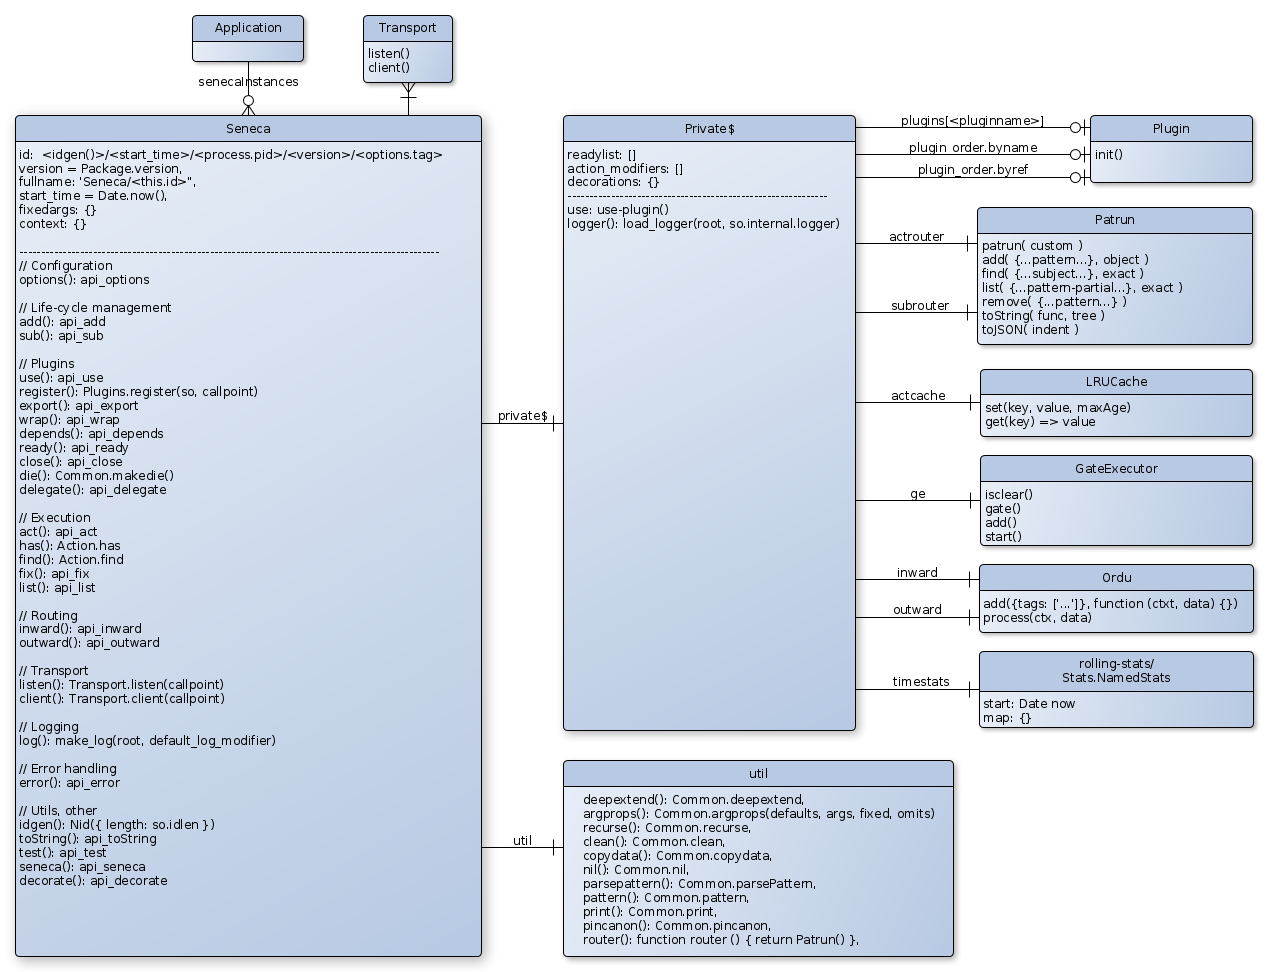
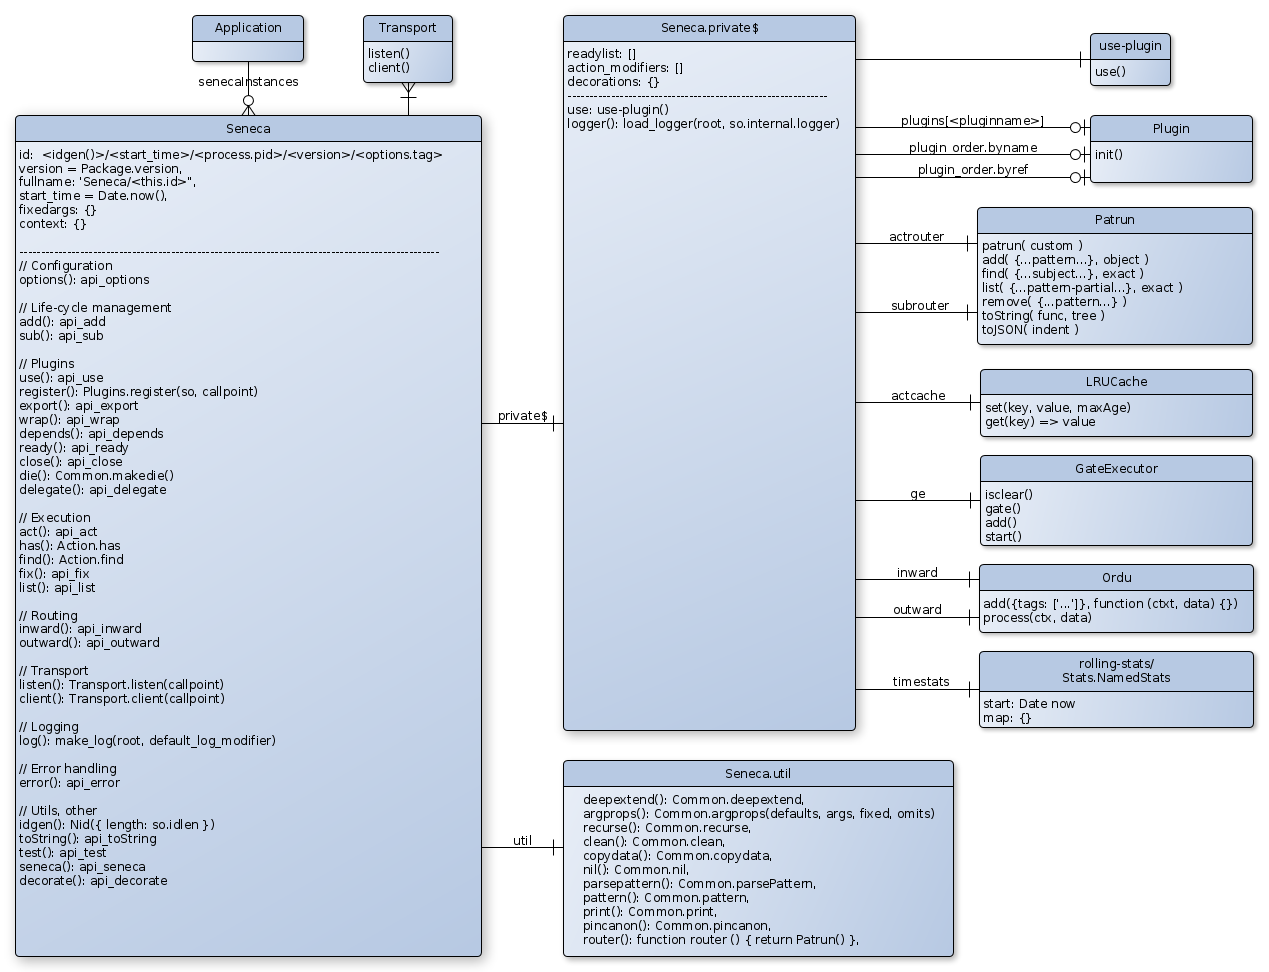
Fine tune domain model diagram

diff --git a/lib/seneca_internals/README.md b/lib/seneca_internals/README.md
@@ -11,7 +11,7 @@ Seneca Internals
 
 ## Domain Model
 
-The following image shows the domain model of the seneca framework:
+The following image shows the simplified domain model of an application that is using seneca instances:
 
 ![Domain Model](seneca-domain-model.png?raw=true)
 
